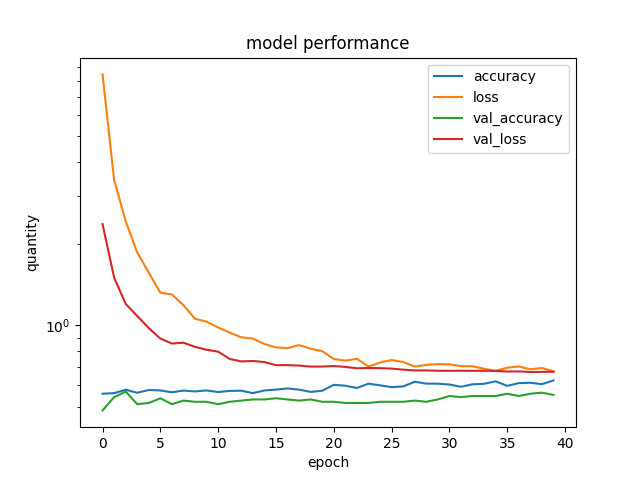
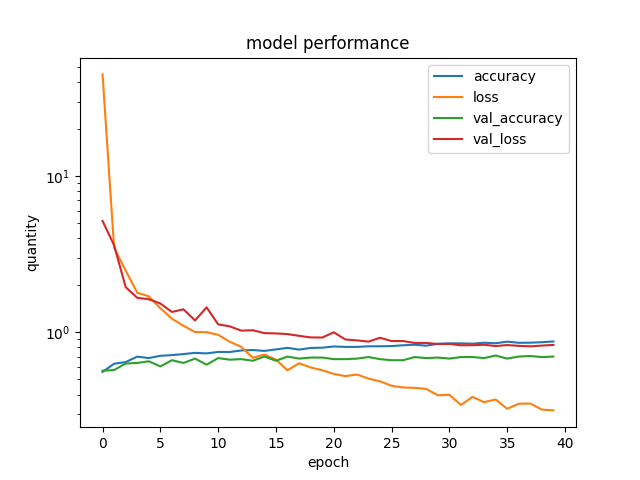
better results with mnist architecture

Changed region(s): [[0.1562, 0.1875, 0.875, 0.875], [0.0625, 0.6562, 0.125, 0.7188], [0.0625, 0.3438, 0.125, 0.375]]

diff --git a/multilayerpercep.py b/multilayerpercep.py
@@ -83,11 +83,8 @@ if nargsin > 0 and argsin[0] == "train":
 	model.add(keras.layers.MaxPooling2D(pool_size=(2, 2)))
 	model.add(keras.layers.Conv2D(64, kernel_size=(3, 3), activation="relu"))
 	model.add(keras.layers.MaxPooling2D(pool_size=(2, 2)))
-	model.add(keras.layers.Conv2D(64, kernel_size=(3, 3), activation="relu"))
-	model.add(keras.layers.MaxPooling2D(pool_size=(2, 2)))
 	model.add(keras.layers.Flatten())
 	model.add(keras.layers.Dropout(0.5))
-	model.add(keras.layers.Dense(64, activation="relu"))
 	model.add(keras.layers.Dense(number_of_categories, activation="softmax"))
 
 	"""
